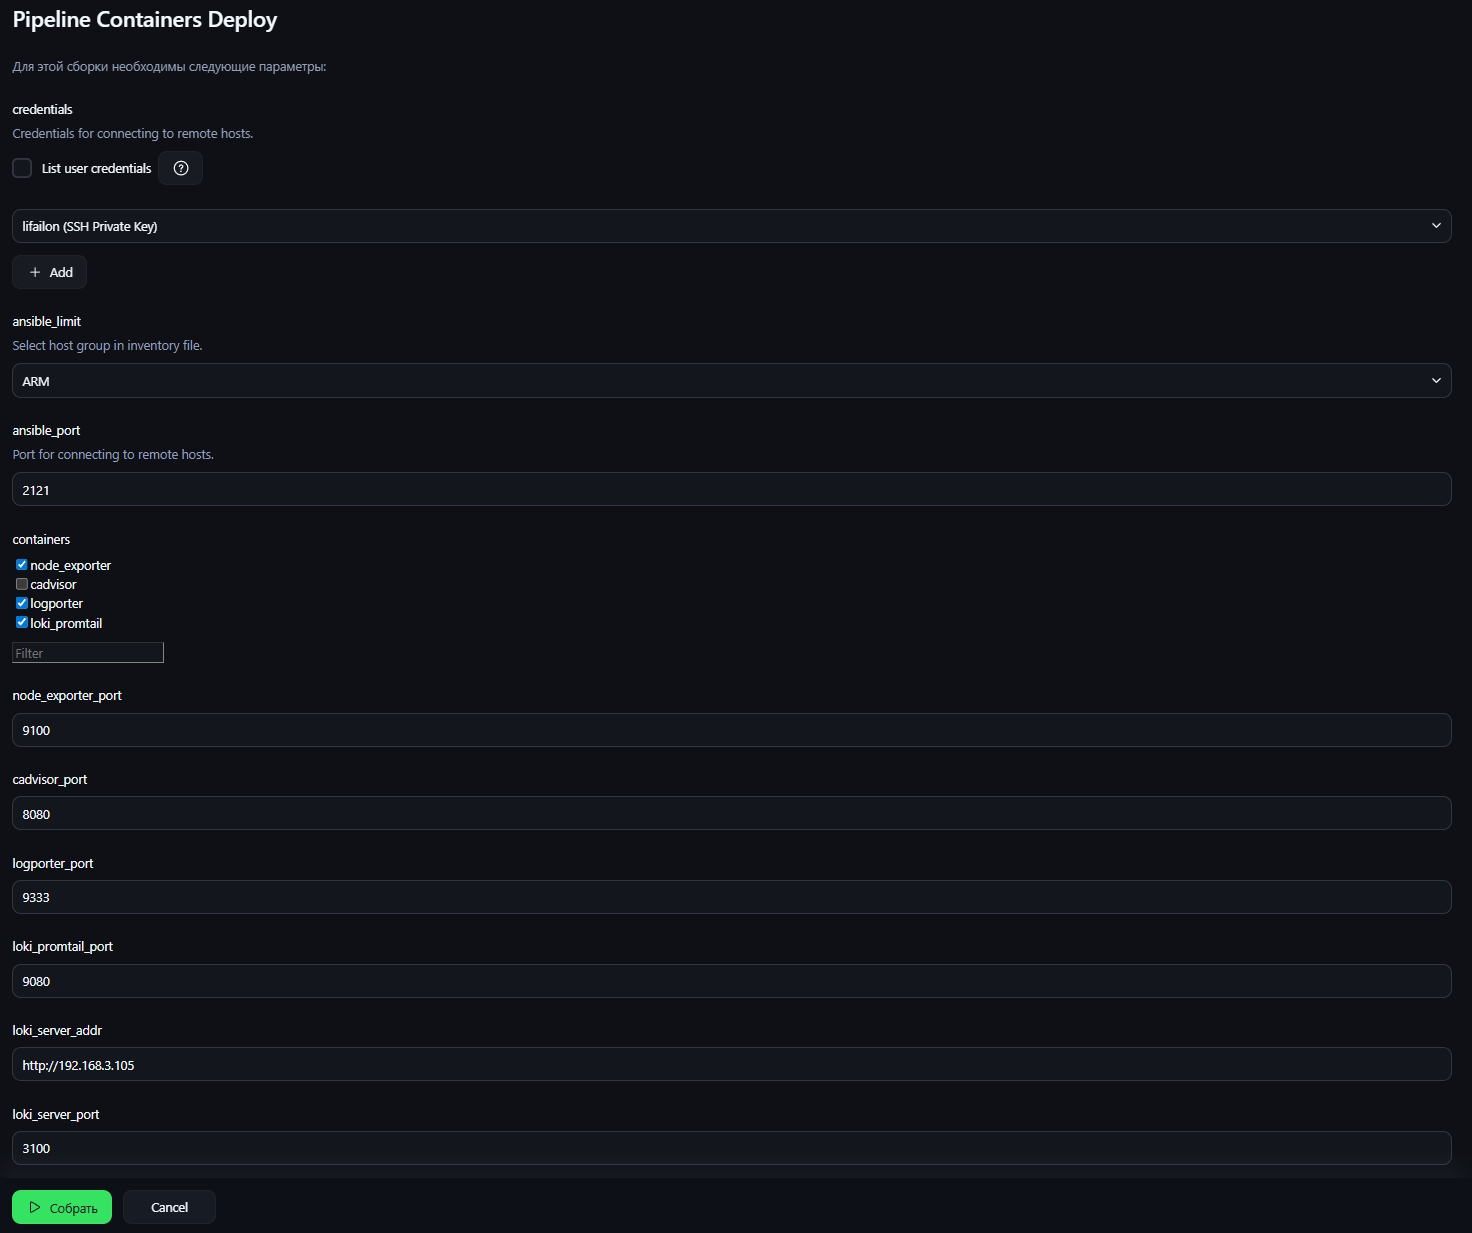
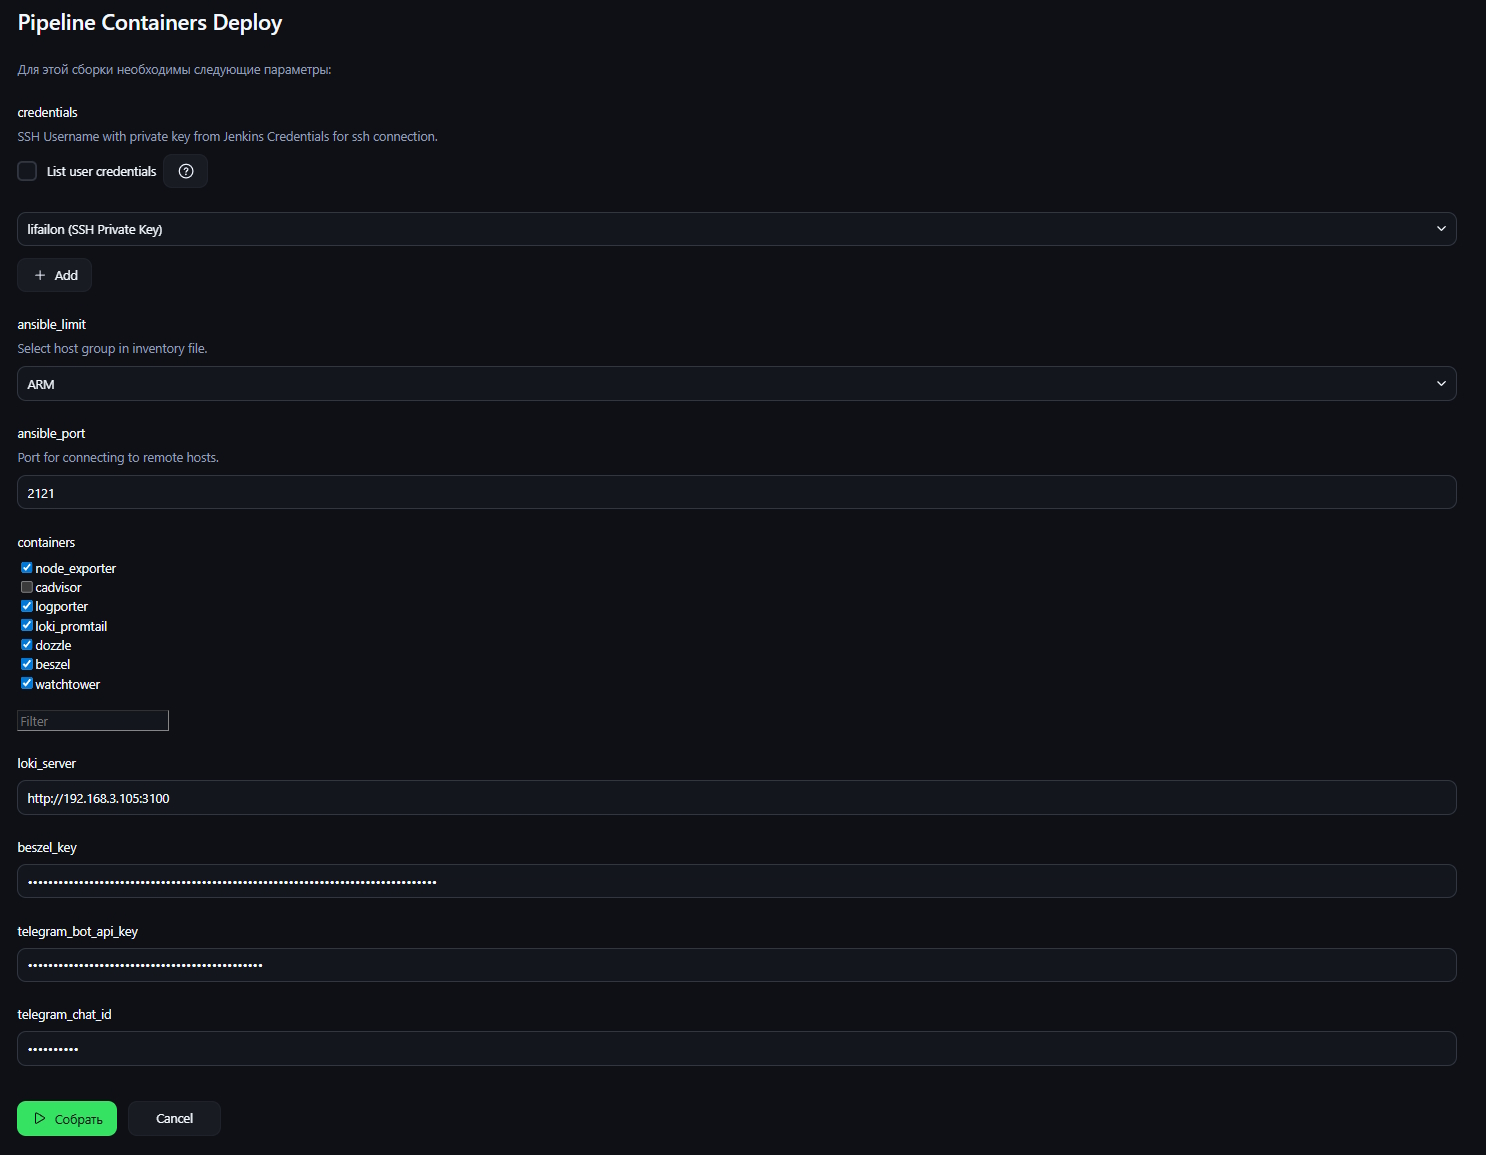
add new dozzle, beszel, watchtower agents and update params

Changed region(s): [[0.0, 0.0, 0.2812, 0.9974]]

diff --git a/containers-deploy/README.md b/containers-deploy/README.md
@@ -1,24 +1,19 @@
 # Containers Deploy
 
-Pipeline implements the deployment of agents for monitoring metrics and logs from Linux and the Docker containers using Ansible. Templating and parameterization are supported for 4 agents: `Node Exporter`, `cAdvisor`, `LogPorter` and `Loki promtail` (if you want to skip installation of a specific agent, leave the port parameter blank).
+Pipeline implements deployment of agents for monitoring metrics and logs from Linux systems and Docker containers using Ansible. Templating and parameterization are supported for the following agents:
 
-## Local run
-
-```bash
-git clone https://github.com/Lifailon/parallel-execution-pipeline
-cd parallel-execution-pipeline/mon-agent-deploy
-
-# Update host list and variables
-# ./inventories/inventory.yml
-# ./inventories/group_vars/*.yml
-
-ansible-playbook -l <HOSTS_GROUP_NAME> -i ./inventories/inventory.yml ./playbooks/deploy.yml
-```
+- [Node Exporter](https://github.com/prometheus/node_exporter)
+- [cAdvisor](https://github.com/google/cadvisor)
+- [LogPorter](https://github.com/Lifailon/logporter)
+- [Loki promtail](https://github.com/grafana/loki)
+- [Dozzle](https://github.com/amir20/dozzle)
+- [Beszel](https://github.com/henrygd/beszel)
+- [Watchtower](https://github.com/containrrr/watchtower)
 
 ## Parameters
 
-![](/mon-agent-deploy/img/params.jpg)
+![](/containers-deploy/img/params.jpg)
 
 ## Deployment
 
-![](/mon-agent-deploy/img/playbook-run.jpg)
+![](/containers-deploy/img/playbook-run.jpg)
